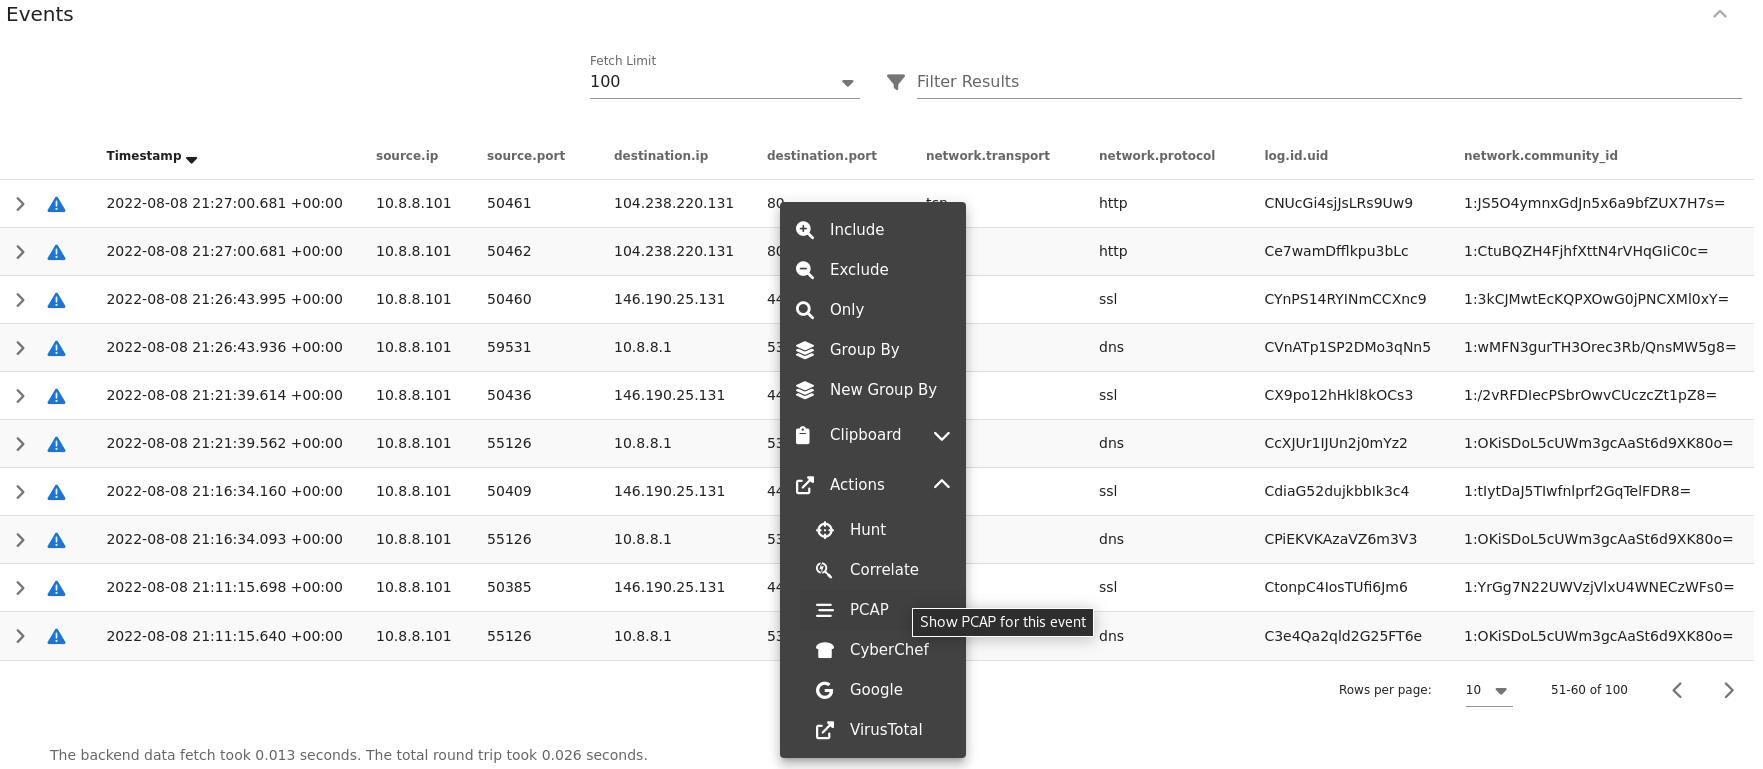
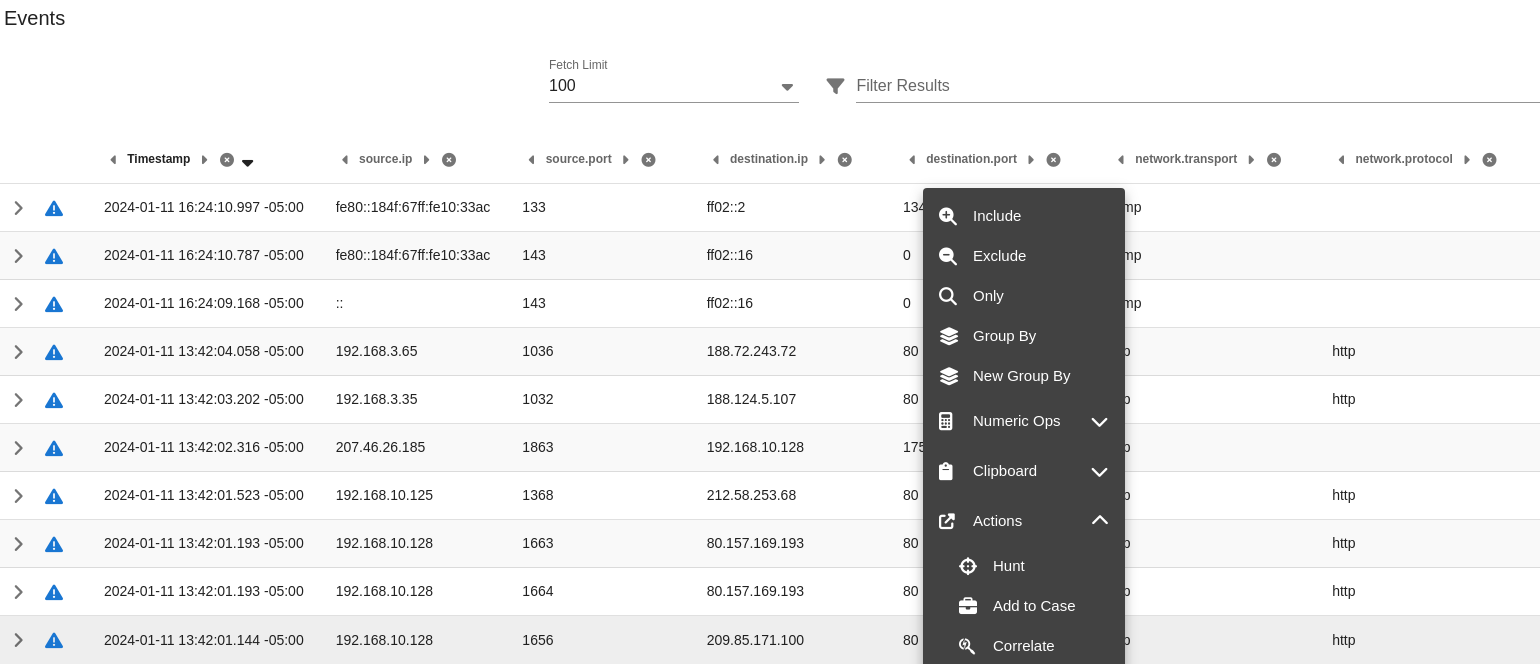
Update docs with column manipulation

diff --git a/dashboards.rst b/dashboards.rst
@@ -89,7 +89,7 @@ Once you have switched to a chart, you will see different buttons at the top of 
 Events
 ------
 
-The third and final section of the page is a data table that contains all search results and allows you to drill into individual search results as necessary. Clicking the table headers allows you to sort ascending or descending. Starting from the left side of each row, there is an arrow which will expand the result to show all of its fields. To the right of that arrow is the ``Timestamp`` field. Next, a few standard fields are shown: ``source.ip``, ``source.port``, ``destination.ip``, ``destination.port``, ``log.id.uid`` (Zeek unique identifier), ``network.community_id`` (Community ID), and ``event.dataset``. Depending on what kind of data you're looking at, there may be some additional data-specific fields as well. 
+The third and final section of the page is a data table that contains all search results and allows you to drill into individual search results as necessary. Clicking the table header labels allows you to sort ascending or descending. You can also move a column to the right or left, or remove the column, by clicking the appropriate icons surrounding the column header labels. Starting from the left side of each row, there is an arrow which will expand the result to show all of its fields. To the right of that arrow is the ``Timestamp`` field. Next, a few standard fields are shown: ``source.ip``, ``source.port``, ``destination.ip``, ``destination.port``, ``log.id.uid`` (Zeek unique identifier), ``network.community_id`` (Community ID), and ``event.dataset``. Depending on what kind of data you're looking at, there may be some additional data-specific fields as well. 
 
 Clicking a value in the Events table brings up a context menu of actions for that value. This allows you to refine your existing search, start a new search, or even pivot to external sites like Google and VirusTotal.
 
@@ -98,7 +98,7 @@ The default Fetch Limit for the Events table is ``100``. If you need to see more
 .. image:: images/soc-events-table.png
   :target: _images/soc-events-table.png
 
-When you click the arrow to expand a row in the Events table, it will show all of the individual fields from that event. Field names are shown on the left and field values on the right. When looking at the field names, there is an icon to the left that will add that field to the ``groupby`` section of your query. You can click on values on the right to bring up the context menu to refine your search or pivot to other pages. 
+When you click the arrow to expand a row in the Events table, it will show all of the individual fields from that event. Field names are shown on the left and field values on the right. When looking at the field names, there are two icons to the left. The Groupby icon, the left most icon, will add that field to the ``groupby`` segment of your query. The Toggle Column icon, to the right of the Groupby icon, will toggle that column in the Events table, and the icon will be a blue color if the column is visible. Additionally, clicking the Toggle Column icon will add a new ``| table xxx yyy zzz`` segment to the active query. You can click on values on the right to bring up the context menu to refine your search or pivot to other pages. 
 
 .. image:: images/hunt-expanded.png
   :target: _images/hunt-expanded.png
@@ -236,6 +236,11 @@ By default, grouping by a particular field won't show any values if that field i
   event.dataset:conn AND destination.port:80 | groupby network.protocol* destination.port
 
 Please note that adding the asterisk to a non-string field may not work as expected. As an alternative, you may be able to use the asterisk with the equivalent ``keyword`` field if it is available. For example, ``source.geo.ip*`` may return 0 results, or a query failure error, but ``source.geo.ip.keyword*`` may work as expected.
+
+table
+~~~~~
+
+The ``table`` segment tells Dashboards to include the given field names as columns in the Events table at the bottom of the dashboards screen. The columns will be ordered within the Events table following the same order used in the ``| table xxx yyy zzz` segment``. When no ``table`` segment is provided in the query, Dashboards will analyze the ``events.dataset`` and ``events.module`` values of the query results to determine which default columns would be most appropriate to represent those events. Those default columns are defined in the SOC Configuration.
 
 Sankey Diagram Recursion
 ~~~~~~~~~~~~~~~~~~~~~~~~
